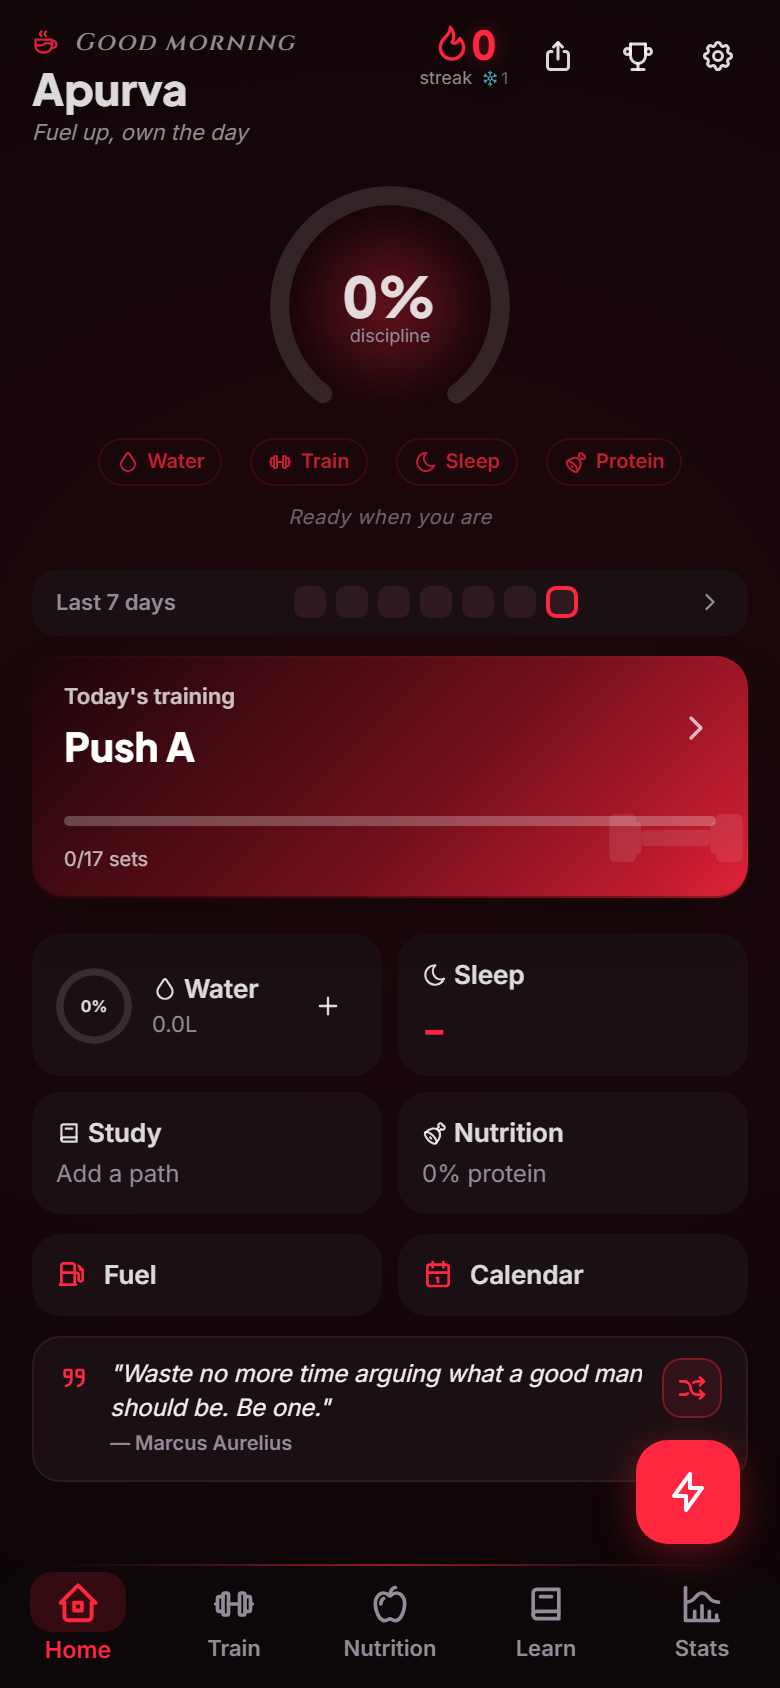
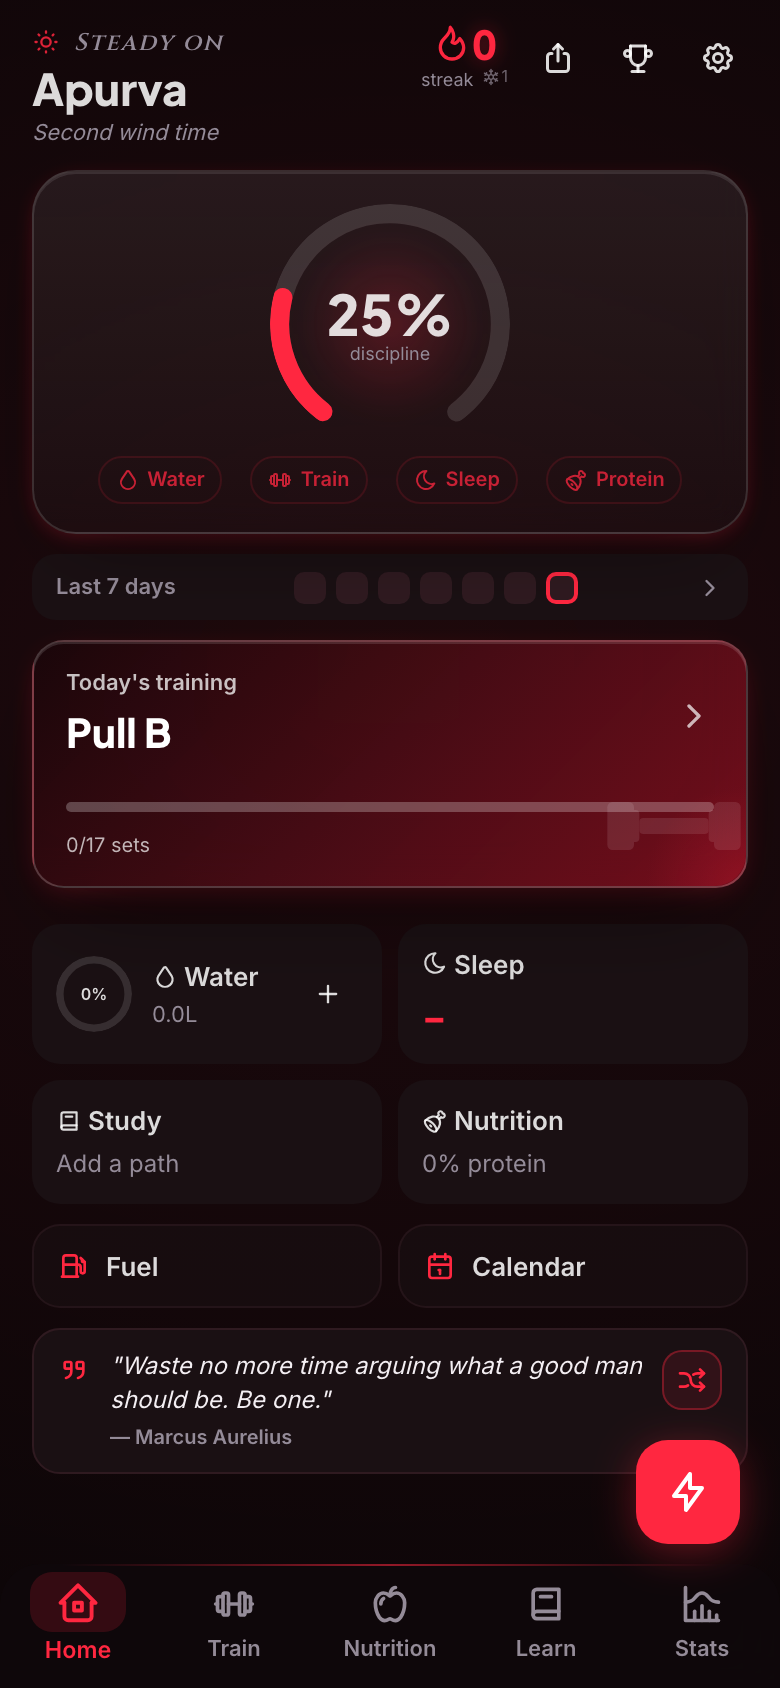
add: updated readme with new UI screnshots and new feature description

diff --git a/README.md b/README.md
@@ -33,7 +33,7 @@ A local-first personal tracker for **training, nutrition, study, sleep, water, b
 <td width="25%"><img src="assets/screenshots/plan-switcher.png" alt="Plan Switcher" /></td>
 </tr>
 <tr>
-<td align="center"><sub><b>Home</b> — discipline ring & streak</sub></td>
+<td align="center"><sub><b>Home</b> — glass discipline ring, parallax greeting</sub></td>
 <td align="center"><sub><b>Train</b> — log a session, zero friction</sub></td>
 <td align="center"><sub><b>Planner</b> — build your split</sub></td>
 <td align="center"><sub><b>Switch Plan</b> — flip splits instantly</sub></td>
@@ -50,6 +50,18 @@ A local-first personal tracker for **training, nutrition, study, sleep, water, b
 <td align="center"><sub><b>Hall of Frame</b> — 83 badges to earn</sub></td>
 <td align="center"><sub><b>Stats</b> — insights that matter</sub></td>
 </tr>
+<tr>
+<td width="25%"><img src="assets/screenshots/pr-celebration.png" alt="PR Celebration" /></td>
+<td width="25%"></td>
+<td width="25%"></td>
+<td width="25%"></td>
+</tr>
+<tr>
+<td align="center"><sub><b>PR Celebration</b> — a brutal one-liner every time you beat yourself</sub></td>
+<td></td>
+<td></td>
+<td></td>
+</tr>
 </table>
 
 ---
@@ -58,10 +70,12 @@ A local-first personal tracker for **training, nutrition, study, sleep, water, b
 
 - 🏋 **Multiple switchable training plans** — 3 built-in splits (Classic PPL, PPL + Rest, Bro Split) plus unlimited custom plans, each a full 7-day program you build once and flip between in one tap. Switching never loses progress — your outgoing plan is saved automatically.
 - ⚡ **Two-screen gym engine** — a minimal Session Logger for the gym (progress bar, +/− weight/reps, tap to complete, drop sets, supersets, rest timer) and a full Workout Planner for the couch (149-exercise library, custom days, weekly schedule, progressive-overload nudges)
-- 📊 **Discipline score** — one ring on Home that tells you if today is on track (water + training + sleep + protein, averaged)
+- 📊 **Discipline score** — a glass "dish" ring on Home that tells you if today is on track (water + training + sleep + protein, averaged), with scroll parallax, a staggered entrance cascade, and a kinetic digit-flicker when you're falling behind
+- 🏆 **Brutal PR celebrations & level-ups** — every PR fires a full-bleed one-liner ("PR. Now go find the next one.") instead of a generic toast; leveling up gets a cinematic screen-flash + tier-banded flavor text that gets harsher the higher you climb
+- 📉 **"Weaker than last time" call-outs** — a logged set that came in under your ghost from last session gets flagged inline, not just silently under-highlighted
 - 📅 **Discipline calendar** — month grid colored by daily score with per-metric filters, streak freeze, workout backfill, on-this-day comparisons, goal countdowns, photo pins, range stats, and a GitHub-style year heatmap
 - 🗓 **Full Month/Week/Day calendar** — a unified tasks & events system underneath it, draw-to-create time blocks, recurring events, all-day/multi-day spans, and real two-way Google Calendar sync
-- ⚡ **XP + Levels** — every action earns XP. 21 levels from Recruit to Zenith. Cinematic level-up overlay.
+- ⚡ **XP + Levels** — every action earns XP. 21 levels from Recruit to Zenith.
 - 🏆 **83 achievement badges** — 5 tiers (bronze → mythic), 17 mystery, earned by real milestones
 - 🏅 **Social leaderboard** — follow friends by share code, compete on weekly discipline %, streak, volume. See each other's top badges.
 - 🌅 **Time-aware greeting** — 7 time-of-day slots with matching icons, taglines, and evolving gradients from dawn to late night
